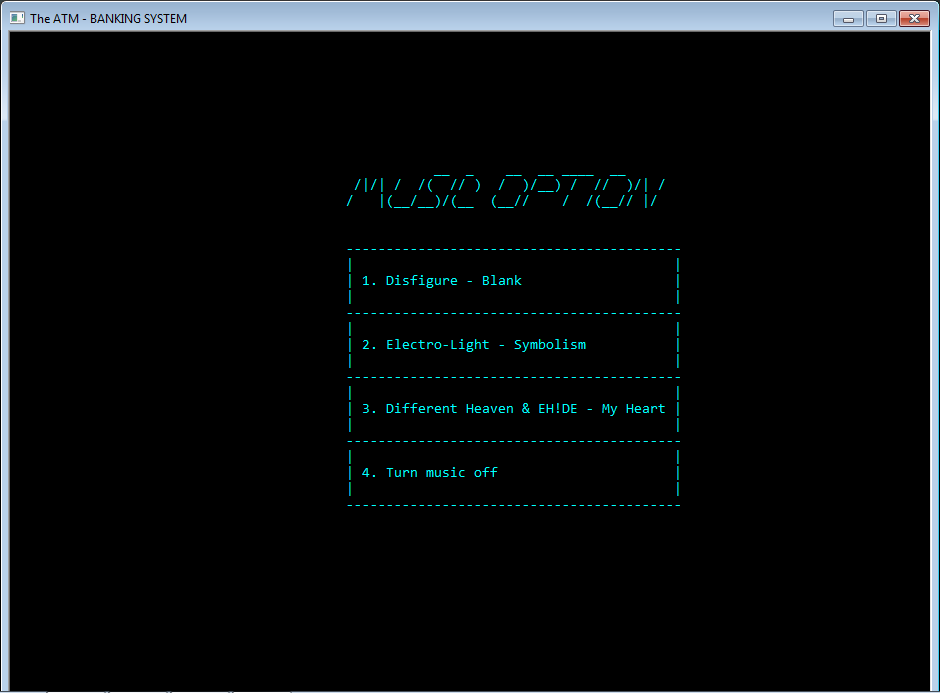
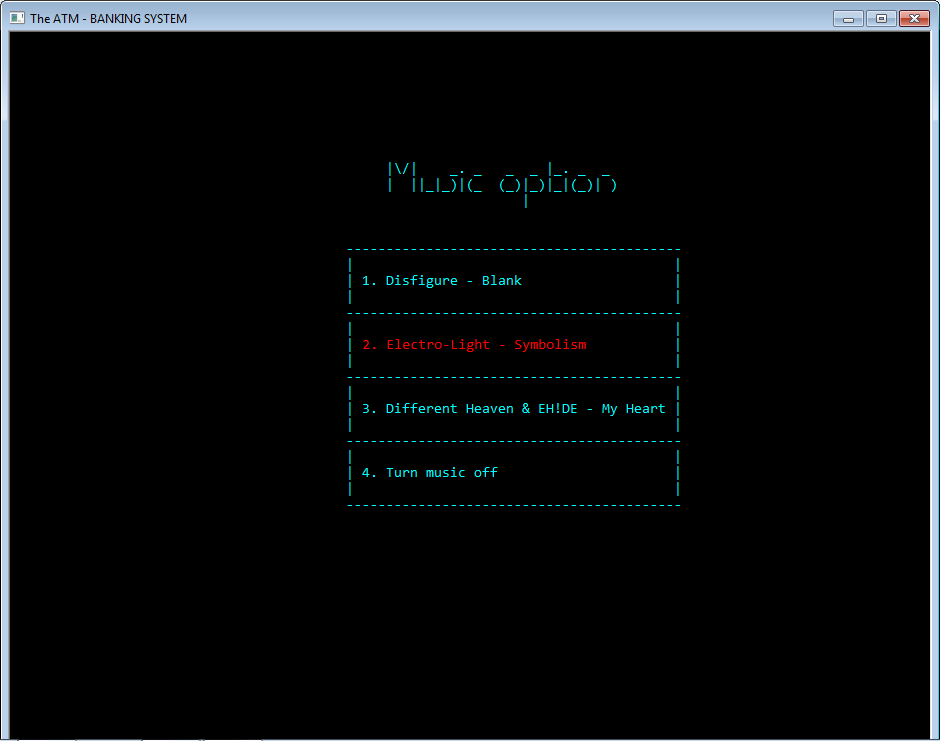
update screenshot

diff --git a/_ATM_/src/main.cpp b/_ATM_/src/main.cpp
@@ -1,6 +1,5 @@
 #include "../include/_ATM_.h"
 #include "../include/showScreen.h"
-#include "mmsystem.h"
 
 #define WIDTH 115
 #define HEIGHT 45
@@ -473,19 +472,19 @@ int main()
                             cout <<"   _______ _                 _                           __                       _                                "
                                  <<"  |__   __| |               | |                         / _|                     (_)                               "
                                  <<"     | |  | |__   __ _ _ __ | | __  _   _  ___  _   _  | |_ ___  _ __   _   _ ___ _ _ __   __ _   ________  _   _  "
-                                 <<"     | |  |  _ ` / _` |  _ `| |/ / | | | |/ _ `| | | | |  _/ _ `|  __| | | | / __| |  _ ` / _` | |  _   _ `| | | | "
-                                 <<"     | |  | | | | (_| | | | |   <  | |_| | (_) | |_| | | || (_) | |    | |_| `__ ` | | | | (_| | | | | | | | |_| | "
-                                 <<"     |_|  |_| |_|`__,_|_| |_|_|`_`  `__, |`___/ `__,_| |_| `___/|_|     `__,_|___/_|_| |_|`__, | |_| |_| |_|`__, | "
+                                 <<"     | |  |  _ \\ / _\\ |  _ \\| |/ / | | | |/ _ \\| | | | |  _/ _ \\|  __| | | | / __| |  _ \\ / _\\ | |  _   _ \\| | | | "
+                                 <<"     | |  | | | | (_| | | | |   <  | |_| | (_) | |_| | | || (_) | |    | |_| \\__ \\ | | | | (_| | | | | | | | |_| | "
+                                 <<"     |_|  |_| |_|\\__,_|_| |_|_|\\_\\  \\__, |\\___/ \\__,_| |_| \\___/|_|     \\__,_|___/_|_| |_|\\__, | |_| |_| |_|\\__, | "
                                  <<"                                     __/ |                                                 __/ |             __/ | "
                                  <<"                                    |___/                                                 |___/             |___/  "
                                  <<"           _______ __  __            ____              _    _                _____           _                   _ "
-                                 <<"        /`|__   __|  `/  |          |  _ `            | |  (_)              / ____|         | |                 | |"
-                                 <<"       /  `  | |  | `  / |  ______  | |_) | __ _ _ __ | | ___ _ __   __ _  | (___  _   _ ___| |_ ___ ________   | |"
-                                 <<"      / /` ` | |  | |`/| | |______| |  _ < / _` |  _ `| |/ / |  _ ` / _` |  `___ `| | | / __| __/ _ `  _   _ `  | |"
-                                 <<"     / ___` `| |  | |  | |          | |_) | (_| | | | |   <| | | | | (_| |  ____) | |_| `__ ` ||  __/ | | | | | |_|"
-                                 <<"    /_/    `_`_|  |_|  |_|          |____/ `__,_|_| |_|_|`_`_|_| |_|`__, | |_____/ `__, |___/`__`___|_| |_| |_| (_)"
-                                 <<"                                                                    __/ |          __/ |                           "
-                                 <<"                                                                   |___/          |___/                            ";
+                                 <<"        /\\|__   __|  \\/  |          |  _ \\            | |  (_)              / ____|         | |                 | |"
+                                 <<"       /  \\  | |  | \\  / |  ______  | |_) | __ _ _ __ | | ___ _ __   __ _  | (___  _   _ ___| |_ ___ ________   | |"
+                                 <<"      / /\\ \\ | |  | |\\/| | |______| |  _ < / _\\ |  _ \\| |/ / |  _ \\ / _\\ |  \\___ \\| | | / __| __/ _ \\  _   _ \\  | |"
+                                 <<"     / ___\\ \\| |  | |  | |          | |_) | (_| | | | |   <| | | | | (_| |  ____) | |_| \\__ \\ ||  __/ | | | | | |_|"
+                                 <<"    /_/    \\_\\_|  |_|  |_|          |____/ \\__,_|_| |_|_|\\_\\_|_| |_|\\__, | |_____/ \\__, |___/\\__\\___|_| |_| |_| (_)"
+                                 <<"                                                                     __/ |          __/ |                           "
+                                 <<"                                                                    |___/          |___/                            ";
                             setColor(WHITE);
                             Sleep(2500);
                             system("cls");

diff --git a/_ATM_/src/showScreen.cpp b/_ATM_/src/showScreen.cpp
@@ -20,15 +20,17 @@ int showDisplayAndChooseOpt(int x, int y)
     char key;
     ShowCur(false);
     setColor(AQUA);
-    gotoXY(x/2-30,y/2-15);
-    std::cout << "____        _ ____            __              __            ";
-    gotoXY(x/2-30,y/2-14);
-    std::cout << " /  / _    /_| /  /|/|  __   / _)_   / .  _  (     __/_  _  ";
-    gotoXY(x/2-30,y/2-13);
-    std::cout << "/  /)(-`  /  |/  /   |      /(_)(//)/(//)(/ __)(/_) /(-`//) ";
-    gotoXY(x/2-30,y/2-12);
-    std::cout << "                                       _/     /             ";
-    int tempY = y/2-9;
+    gotoXY(x/2-45,y/2-15);
+    std::cout << "    _  _____  __  __         ___              _    _               ___            _               ";
+    gotoXY(x/2-45,y/2-14);
+    std::cout << "   /_\\|_   _||  \\/  |  ___  | _ ) __ _  _ _  | |__(_) _ _   __ _  / __| _  _  ___| |_  ___  _ __  ";
+    gotoXY(x/2-45,y/2-13);
+    std::cout << "  / _ \\ | |  | |\\/| | |___| | _ \\/ _` || ` \\ | / /| || ` \\ / _` | \\__ \\| || |(_-<|  _|/ -_)| `  \\ ";
+    gotoXY(x/2-45,y/2-12);
+    std::cout << " /_/ \\_\\|_|  |_|  |_|       |___/\\__,_||_||_||_\\_\\|_||_||_|\\__, | |___/ \\_, |/__/ \\__|\\___||_|_|_|";
+    gotoXY(x/2-45,y/2-11);
+    std::cout << "                                                           |___/        |__/                      ";
+    int tempY = y/2-8;
 // Vẽ box
     for (int i = 0; i < 4; i++)
     {
@@ -52,7 +54,7 @@ int showDisplayAndChooseOpt(int x, int y)
     }
     while(true)
     {
-        tempY=y/2-7;
+        tempY=y/2-6;
         for(int i=1; i<=3; i++)
         {
             gotoXY(x/2-14,tempY);
@@ -102,10 +104,12 @@ int showMenuAndChooseOpt(int x, int y)
     char key;
     ShowCur(false);
     setColor(AQUA);
-    gotoXY(x/2-3,y/2-15);
-    std::cout << " /|/| _     ";
-    gotoXY(x/2-3,y/2-14);
-    std::cout << "/   |(-`/)(/";
+    gotoXY(x/2-5,y/2-16);
+    std::cout << "     __         ";
+    gotoXY(x/2-5,y/2-15);
+    std::cout << "|\\/||_ |\\ ||  | ";
+    gotoXY(x/2-5,y/2-14);
+    std::cout << "|  ||__| \\|\\__/ ";
     int tempY = y/2-12;
     for (int i = 0; i < 9; i++)
     {
@@ -190,13 +194,13 @@ int showOptAndChoose(int x,int y,int caseOpt)
     ShowCur(false);
     setColor(AQUA);
     gotoXY(x/2-13,y/2-12);
-    std::cout << "  _                              ";
+    std::cout << " __                                       ";
     gotoXY(x/2-13,y/2-11);
-    std::cout << " / )/      _ _    _       _/.    ";
+    std::cout << "/  |_  _  _  _ _    _  _    _  _ |_. _  _  ";
     gotoXY(x/2-13,y/2-10);
-    std::cout << "(__/)()()_) (-`  (//) ()/)//()/) ";
+    std::cout << "\\__| )(_)(_)_)(-`  (_|| )  (_)|_)|_|(_)| ) ";
     gotoXY(x/2-13,y/2-9);
-    std::cout << "                       /         ";
+    std::cout << "                              |            ";
     int tempY = y/2-7;
     for (int i = 0; i < 3; i++)
     {
@@ -272,16 +276,15 @@ void showMusicAndChooseOpt(int x, int y)
 {
     int Color[] = {AQUA,AQUA,AQUA,AQUA,AQUA};
     int counter=1;
-    int answer;
     char key;
     ShowCur(false);
     setColor(AQUA);
-    gotoXY(x/2-15,y/2-14);
-    std::cout << "           __  _    __  __ ____  __      ";
-    gotoXY(x/2-15,y/2-13);
-    std::cout << " /|/| /  /(  // )  /  )/__) /  //  )/| / ";
-    gotoXY(x/2-15,y/2-12);
-    std::cout << "/   |(__/__)/(__  (__//    /  /(__// |/  ";
+    gotoXY(x/2-10,y/2-14);
+    std::cout << "|\\/|    _. _   _  _ |_. _  _  ";
+    gotoXY(x/2-10,y/2-13);
+    std::cout << "|  ||_|_)|(_  (_)|_)|_|(_)| ) ";
+    gotoXY(x/2-10,y/2-12);
+    std::cout << "                 |            ";
     int tempY = y/2-9;
     for (int i = 0; i < 5; i++)
     {
